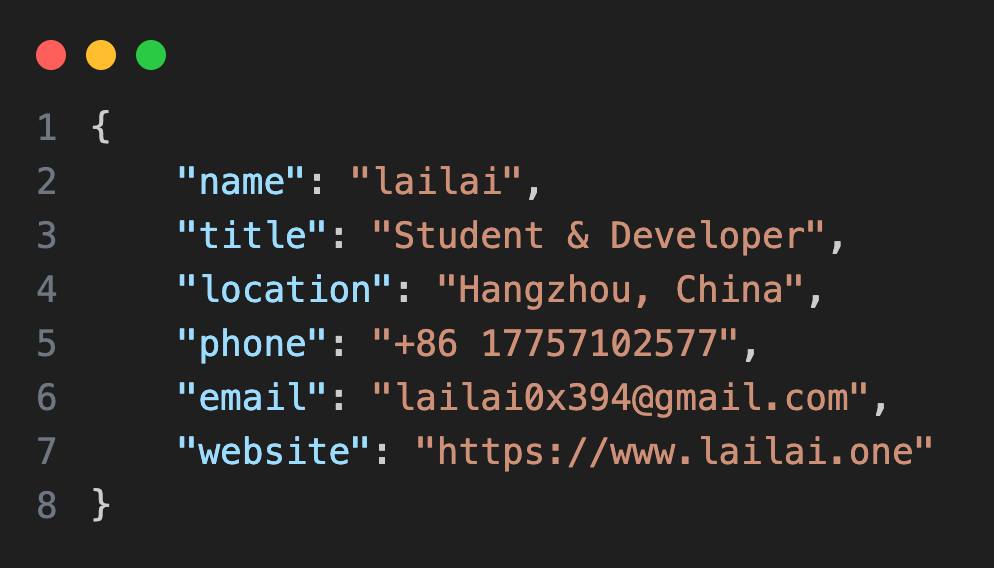
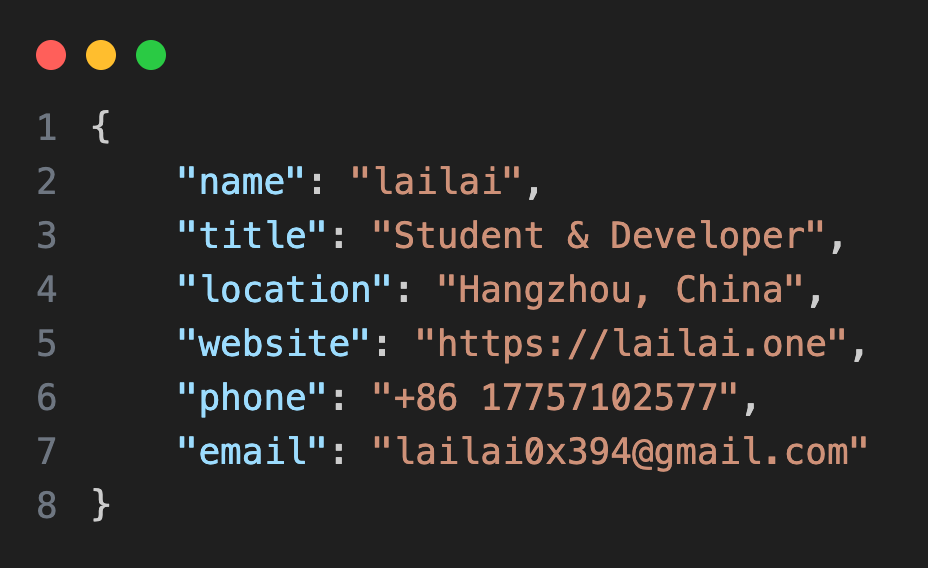
upd

diff --git a/blog/business-card/index.md b/blog/business-card/index.md
@@ -18,13 +18,13 @@ tags: [personal]
 
 ## 代码
 
-```json
+```json title="business-card.json"
 {
     "name": "lailai",
     "title": "Student & Developer",
     "location": "Hangzhou, China",
+    "website": "https://lailai.one",
     "phone": "+86 17757102577",
-    "email": "lailai0x394@gmail.com",
-    "website": "https://www.lailai.one"
+    "email": "lailai0x394@gmail.com"
 }
 ```
